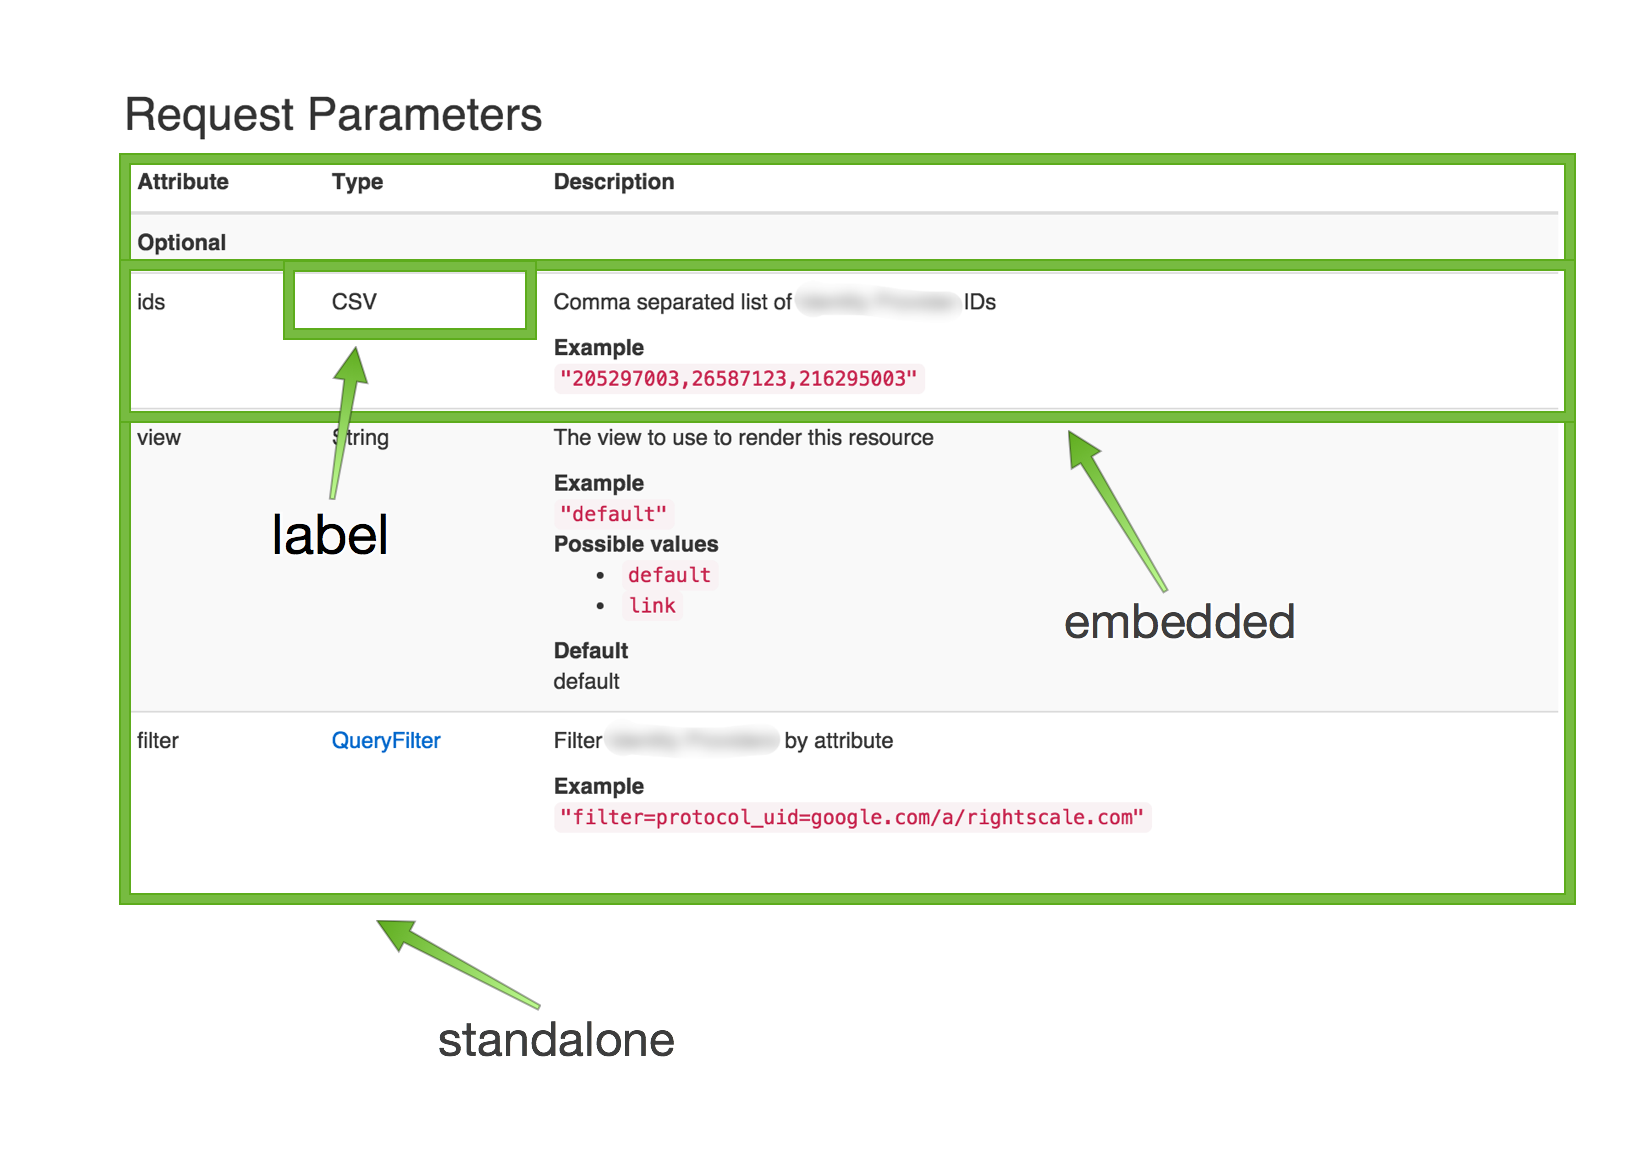
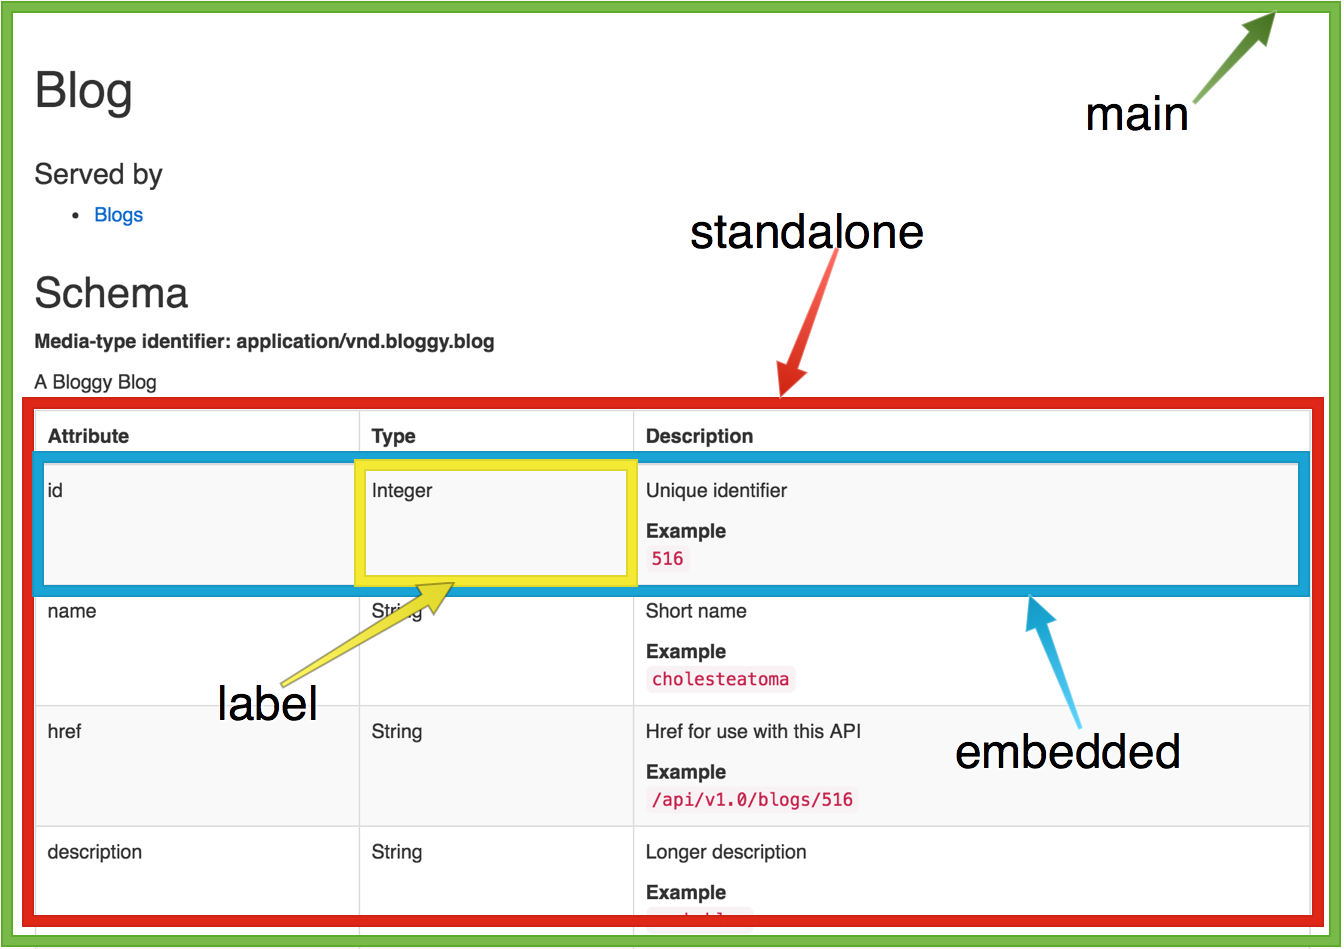
Updates docs with some newer doc browser stuff

Changed region(s): [[0.0, 0.0, 1.0, 1.0]]

diff --git a/reference/api-definition.md b/reference/api-definition.md
@@ -10,7 +10,7 @@ Response Definitions
 : Reusable response templates (see [Response Definitions](../response-definitions/))
 
 API Information
-: Global, or versioned, metadata about the api (see [API Information](../global-api-information/)).
+: Global, or versioned, metadata about the api (see [API Information](#global-information)).
 
 Traits
 : A convenient way to share common DSL elements across resource definitions and
@@ -55,10 +55,11 @@ information on the various bootstrapping stages.
 
 It is possible to provide global API information in the `ApiDefinition.define` block with the `info` method. You may define this metadata for all versions of your API, or only for a specific version. All definitions at the global level (i.e. those that do not specify a version) will be inherited by all versions. Any directive defined within a version will overwrite anything inherited (except `base_path` and `base_params` which a version cannot override if they have been set at the default level).
 
-There are two attributes that are _only_ allowed at global level:
+There are several attributes that are _only_ allowed at global level:
 
 * `endpoint` can define your fully qualified API's endpoint. It's used purely for documentation purposes and will not be used in any routing or route-generation.
 * `version_with` will define what versioning "scheme" your application will use. By default it's set to `[:header, :params]`, meaning Praxis will look for either an  `X-Api-Version` request header *or* an `api_version` query parameter to determine the version of your API to use for processing the request. It is also possible to use a path-based versioning scheme by using `version_with :path`. See section below for details.
+* `documentation_url` is a hint to users where they can find the final version of the API's documentation.
 
 The rest of the directives are supported in both the global or version level:
 
@@ -81,6 +82,7 @@ Praxis::ApiDefinition.define
     title 'An example Praxis application'
     description 'This is an example application API.'
     endpoint 'api.example.com'
+    documentation_url 'https://docs.example.com/some-app/'
     consumes 'json', ''x-www-form-urlencoded''
     produces 'json', 'xml'
     base_path '/:app_name'

diff --git a/reference/doc-generation.md b/reference/doc-generation.md
@@ -123,11 +123,11 @@ angular.module('DocBrowser', ['PraxisDocBrowser'])
 });
 {% endhighlight %}
 
-Here we register a new resolver function that is dependency injected. There are several special variables you can inject: `$type` is the name of the type, `$family` is the name of type family this type belongs to (type families provide a generic way to render similar types), `$typeDefinition` is an object containing everything we know about the type and finally `$requestedTemplate` is one of `standalone`, `embedded` or `label`.
+Here we register a new resolver function that is dependency injected. There are several special variables you can inject: `$type` is the name of the type, `$family` is the name of type family this type belongs to (type families provide a generic way to render similar types), `$typeDefinition` is an object containing everything we know about the type and finally `$requestedTemplate` is one of `standalone`, `embedded`, `label` or `main`.
 
 ![template illustration](/public/images/template-illustration.png)
 
-Standalone templates exist at a standalone context and take the full width of the page. Embedded templates are for types that exist as a value of a key in a parent type and are rendered in a three column table - they should be one or more `<tr>`s. Label templates display the name of a type - which can be a link or conceivably you may add a popover explaining something about your type.
+Standalone templates exist at a standalone context and take the full width of the page. Embedded templates are for types that exist as a value of a key in a parent type and are rendered in a three column table - they should be one or more `<tr>`s. Label templates display the name of a type - which can be a link or conceivably you may add a popover explaining something about your type. Main templates are used for overriding the whole page dedicated to that type.
 
 The resolver function must return one of these possible values:
 
